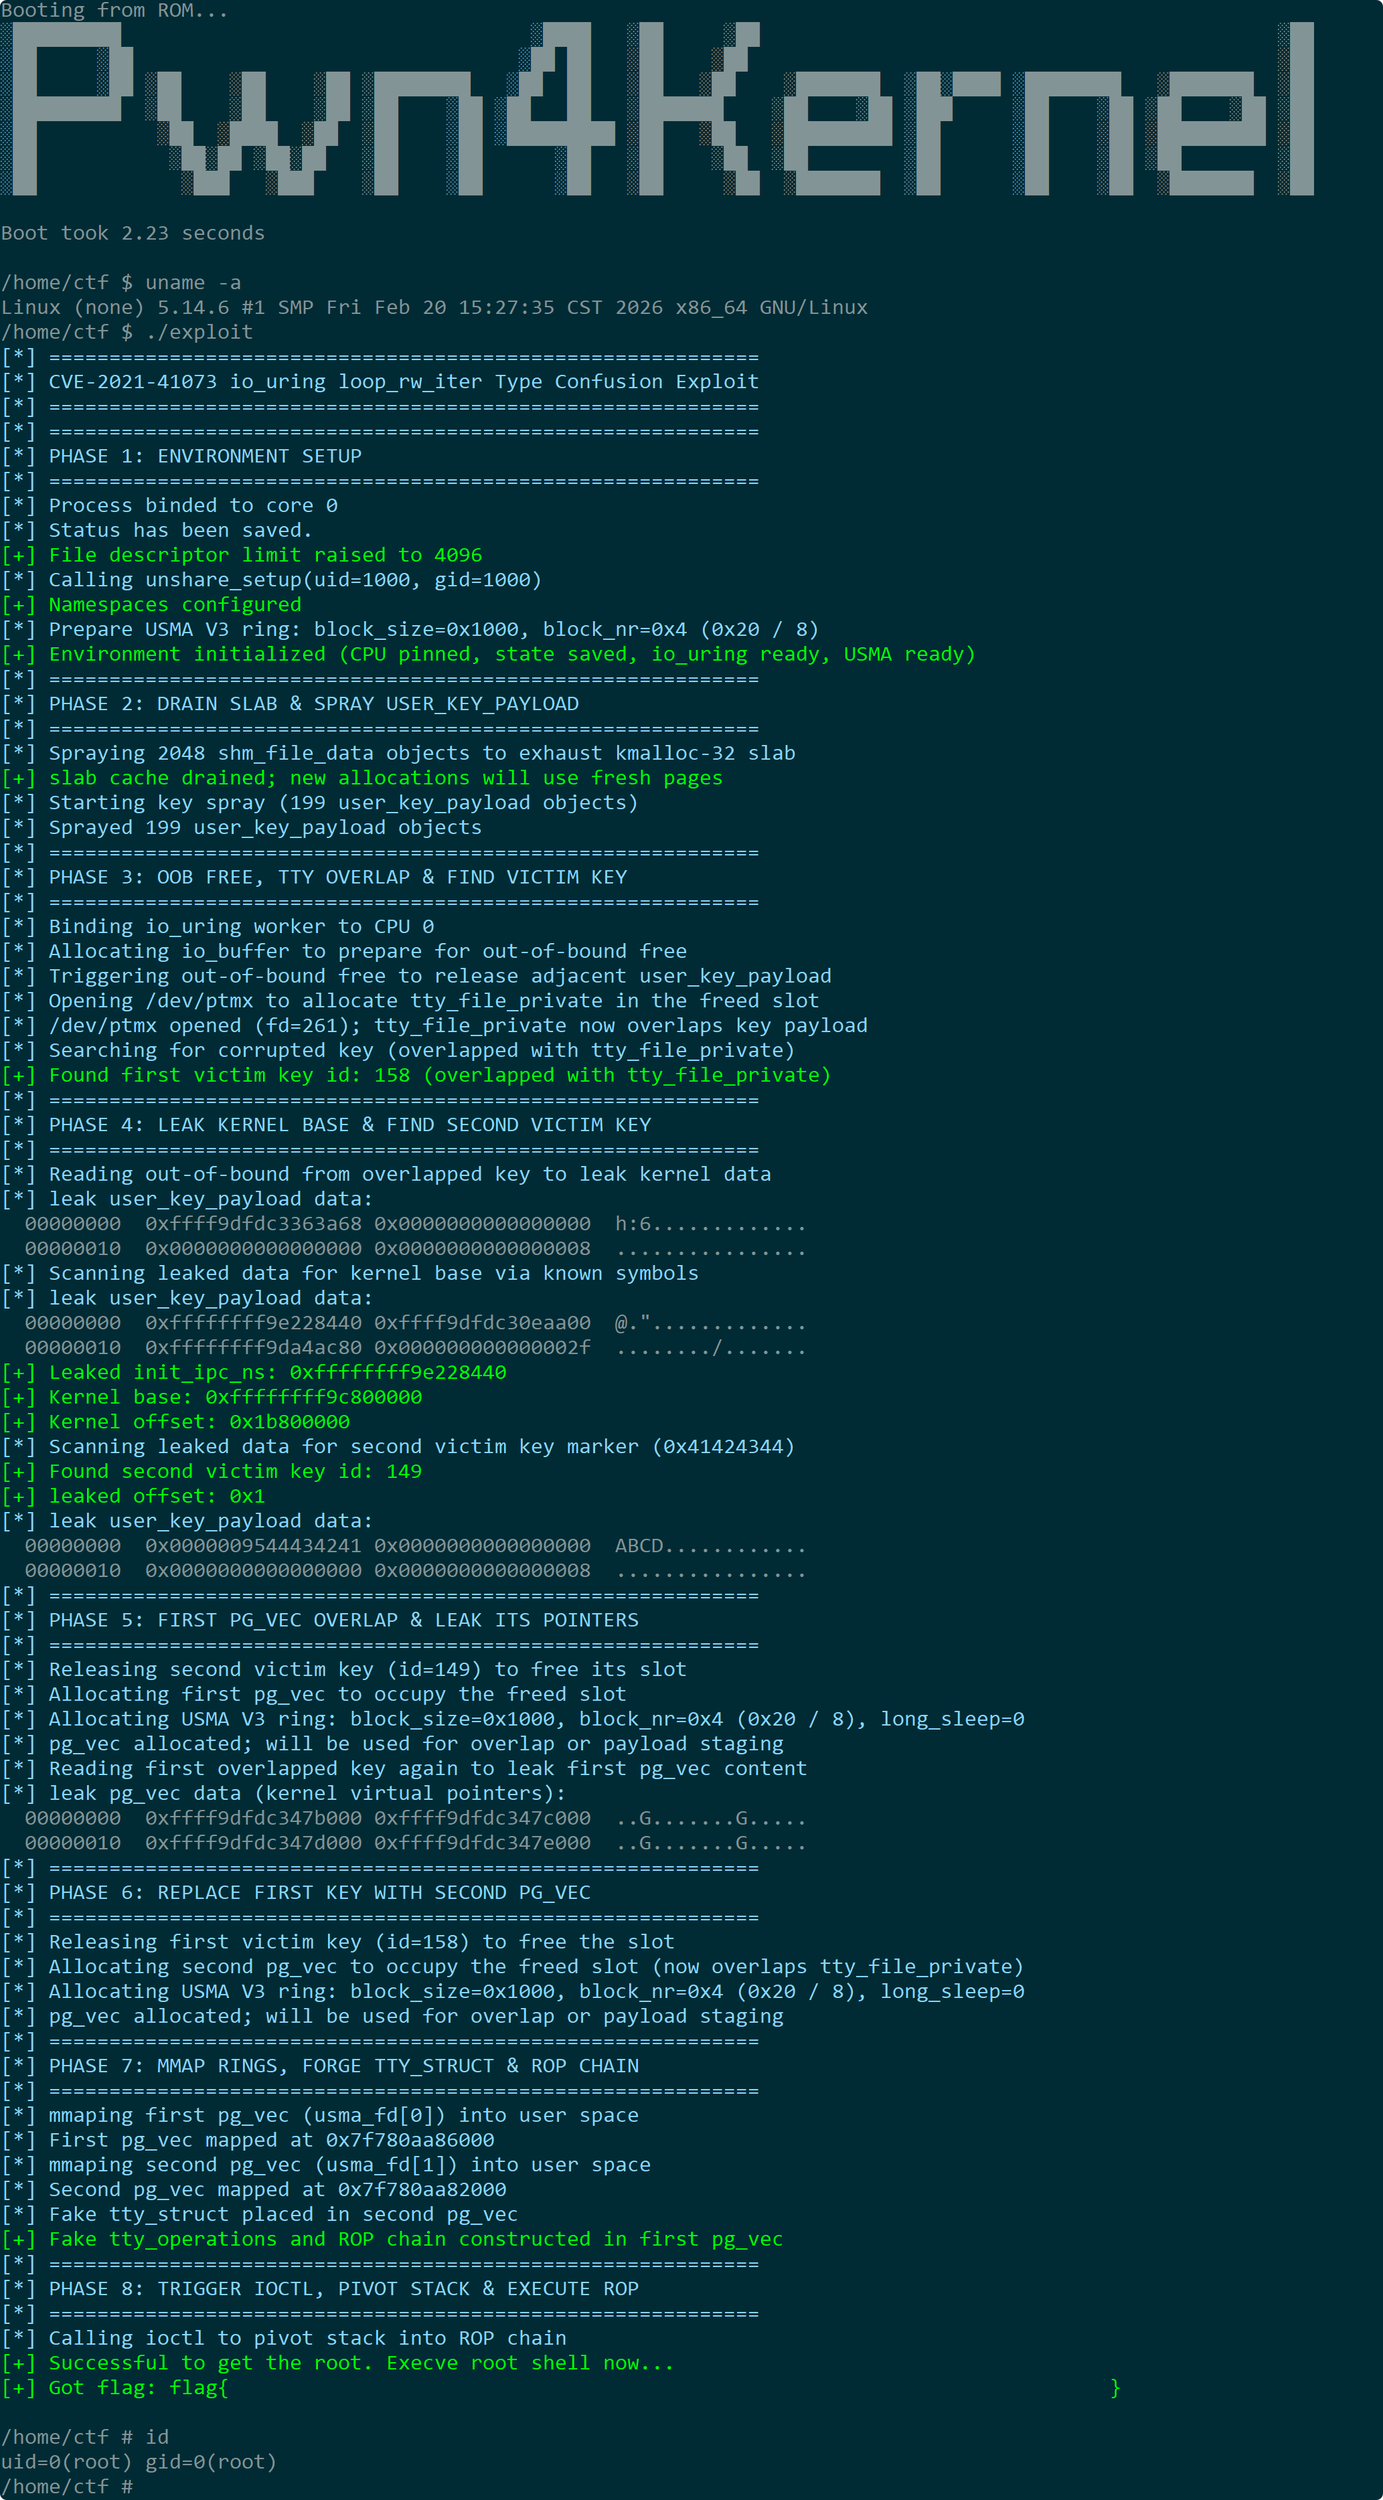
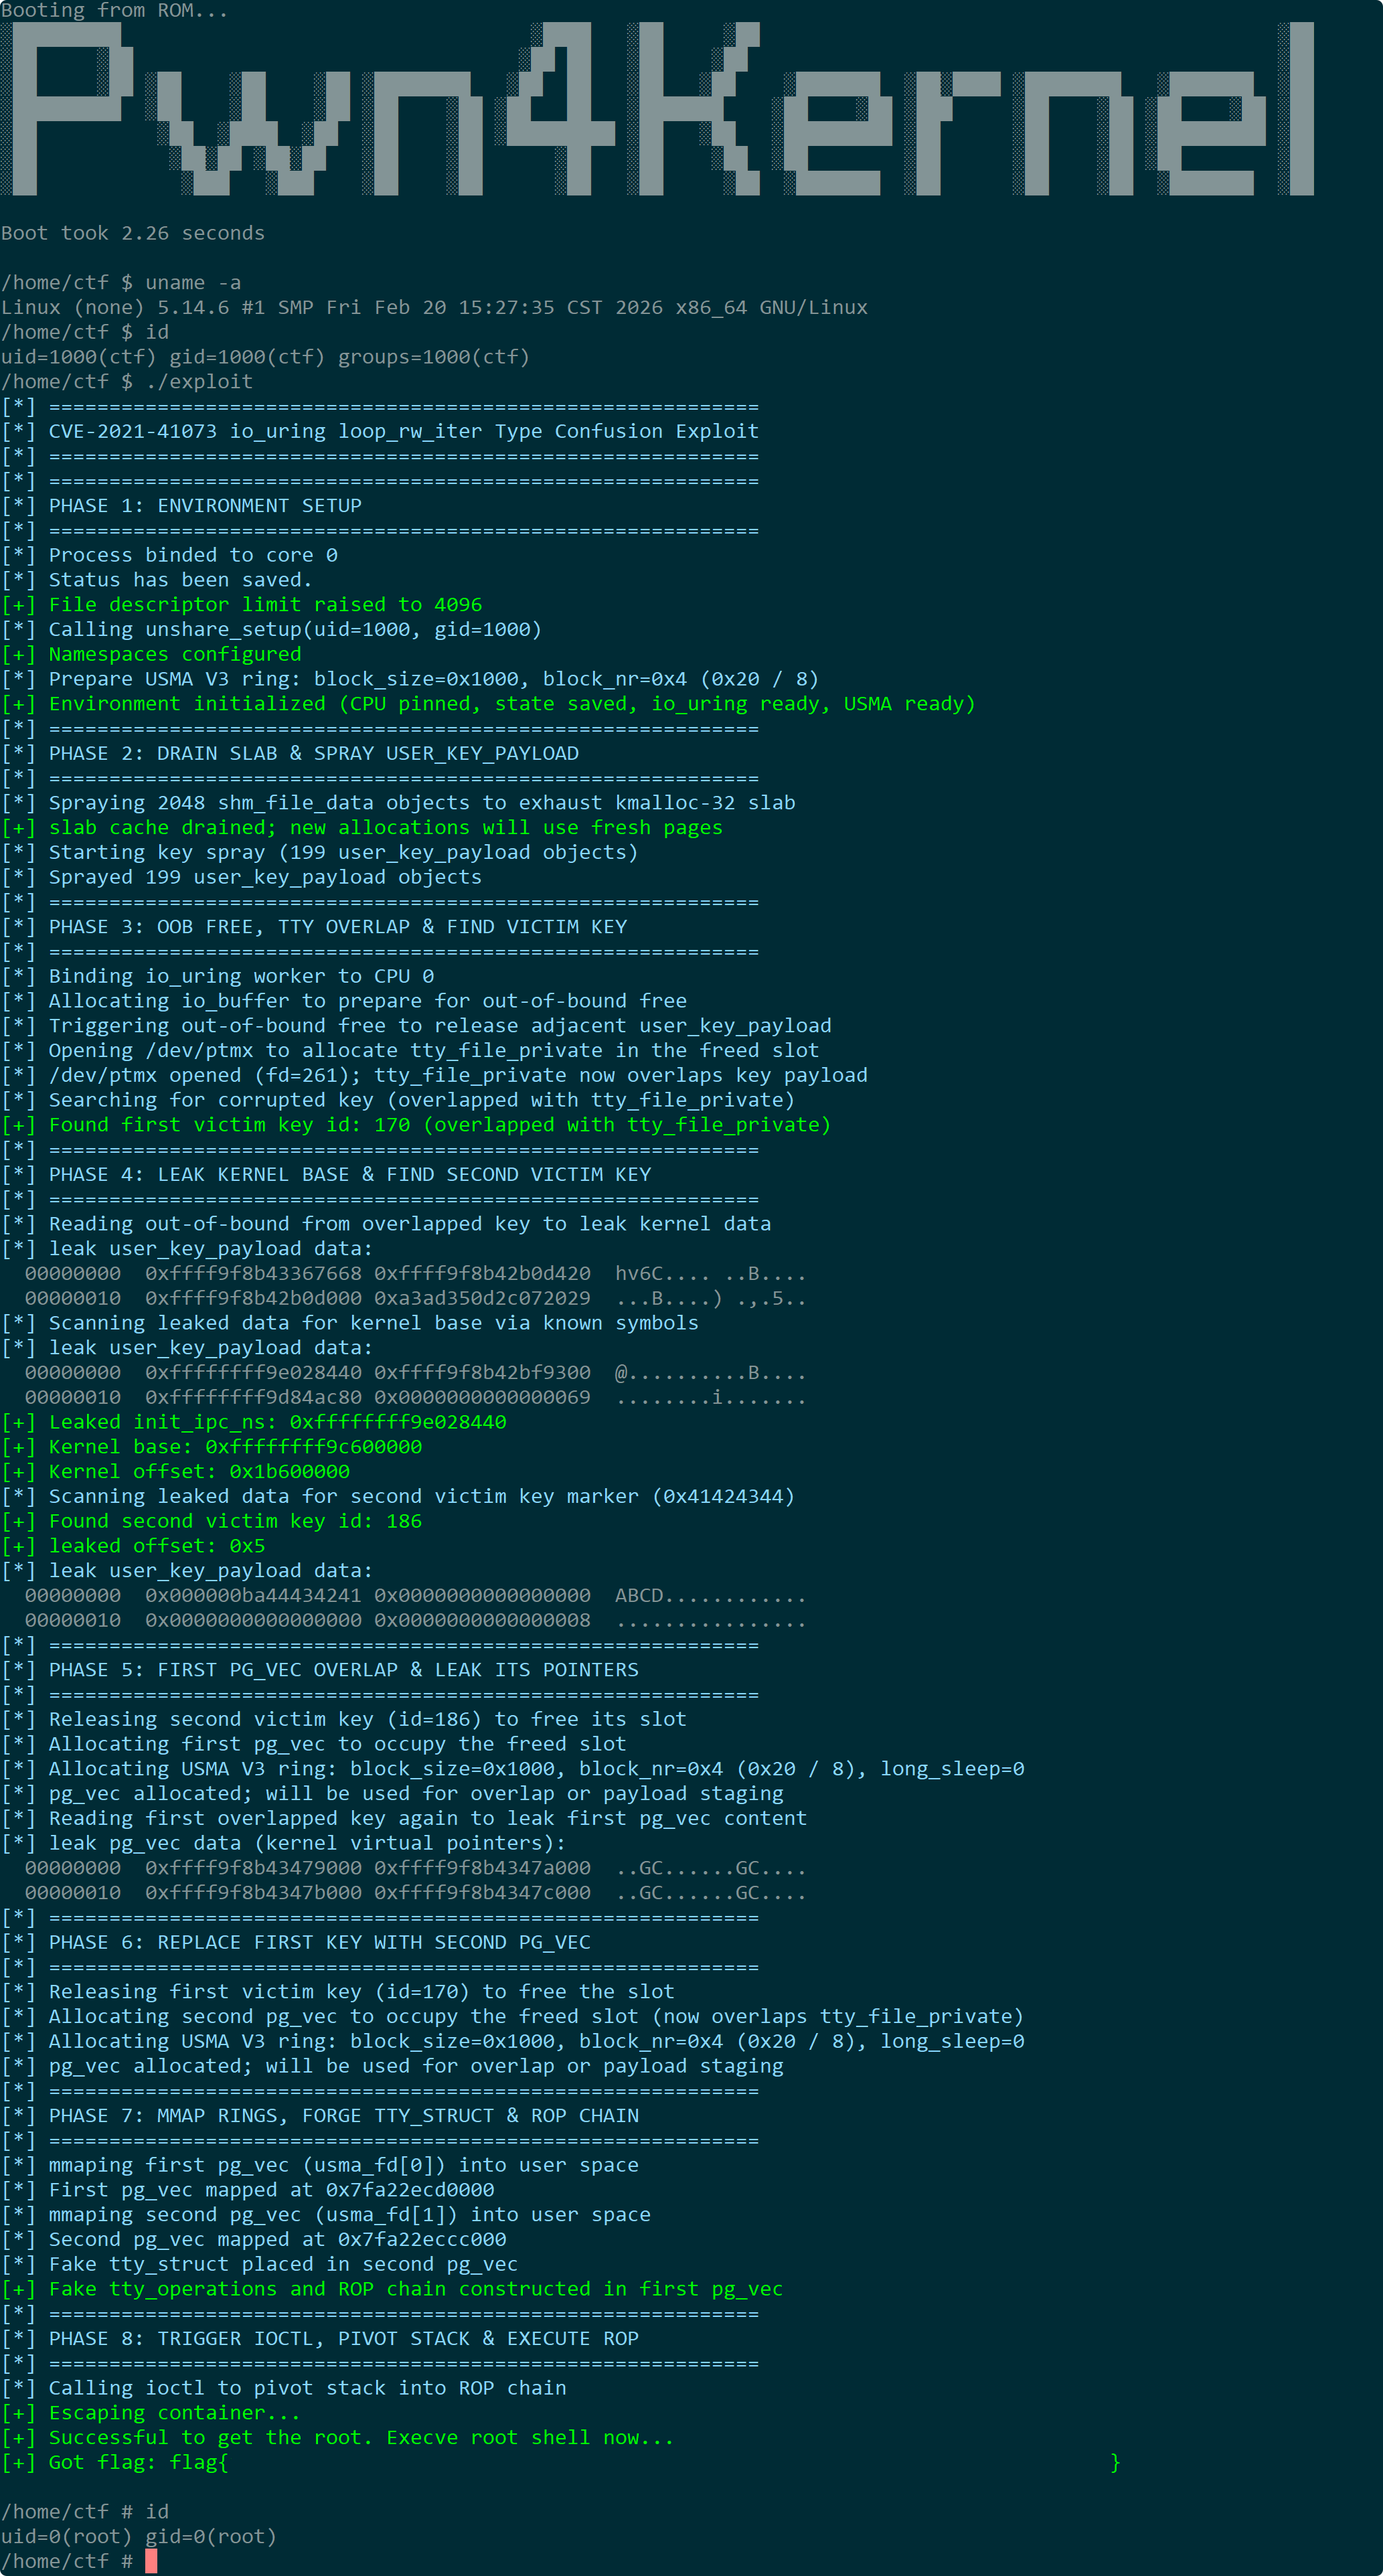
update 【Kernel Exploit】CVE-2021-41073 漏洞分析

diff --git a/_posts/2026-05-31-KernelExploit-CVE-2021-41073.md b/_posts/2026-05-31-KernelExploit-CVE-2021-41073.md
@@ -2299,8 +2299,8 @@ sequenceDiagram
 
 **构造 tty_operations 和 ROP 链**：在第一个 `pg_vec` 的第三个页（`leak_pgv[2]`）中，放置伪造的 `tty_operations` 结构，将其 `ioctl` 函数指针设置为一个合适的堆栈迁移 gadget（用于将控制流转移到 ROP 链）。随后，在同一页或后续页中紧挨着放置完整的 ROP 链，该链完成以下任务：
 
-- 切换到 init 命名空间（通过 `switch_task_namespaces`）
 - 提升权限（`prepare_kernel_cred(0)` + `commit_creds`）
+- 切换到 init 命名空间（通过 `switch_task_namespaces`）
 - 返回用户态并执行 `get_root_shell`（利用 `swapgs_restore_regs_and_return_to_usermode`）。
 
 所有 ROP 链中的地址均基于先前泄露的内核基址计算得到，从而在 KASLR 开启的情况下依然有效。
@@ -2322,7 +2322,7 @@ flowchart TD
 
 **堆栈迁移**：`ioctl` 函数指针被设置为一个堆栈迁移 gadget，该 gadget 将栈指针切换为 RDX 的值（即 ROP 链地址），随后跳转到 ROP 链的第一条指令。
 
-**ROP 执行**：ROP 链依次执行命名空间切换、权限提升和用户态返回，最终在父进程中启动一个 root shell。
+**ROP 执行**：ROP 链依次执行权限提升、命名空间切换和用户态返回，最终在父进程中启动一个 root shell。
 
 ```mermaid
 sequenceDiagram
@@ -2334,7 +2334,7 @@ sequenceDiagram
     Kernel->>Kernel: 通过 tty_struct->ops->ioctl 跳转
     Kernel->>Kernel: 执行堆栈迁移 gadget (RSP = rop_addr)
     Kernel->>ROP: 执行 ROP 链
-    ROP->>Kernel: 切换命名空间、提升权限
+    ROP->>Kernel: 提升权限、切换命名空间
     ROP->>App: 返回用户态并执行 root shell
 ```
 
@@ -2377,7 +2377,7 @@ sequenceDiagram
 
 - **对象重叠与结构控制**：利用越界读取定位第二个受害者密钥，将其释放后分配第一个 `pg_vec`，读取其内部页指针；随后释放第一个密钥（原与 `tty_file_private` 重叠），分配第二个 `pg_vec`，使其与 `tty_file_private` 重叠。通过 USMA 映射，在第二个 `pg_vec` 的物理页中伪造 `tty_struct`，同时在第一个 `pg_vec` 的页中构造 `tty_driver`（type=0, subtype=0）和伪造的 `tty_operations` 表及 ROP 链，从而完全控制 tty 设备的行为。
 
-- **提权触发与稳定性保障**：最后通过 `ioctl` 系统调用，利用伪造的 `tty_operations->ioctl` 指针执行堆栈迁移 gadget，将控制流转移到 ROP 链。ROP 链依次执行命名空间切换、权限提升和用户态返回，最终获得 root shell。与第五章的关键区别在于，本方案**不修改 `pg_vec` 结构中的页指针**，而是仅修改其指向的物理页内容，因此内核定时器对 `pg_vec` 指针合法性的检查始终通过，彻底规避了因篡改指针而可能引入的系统不稳定因素。
+- **提权触发与稳定性保障**：最后通过 `ioctl` 系统调用，利用伪造的 `tty_operations->ioctl` 指针执行堆栈迁移 gadget，将控制流转移到 ROP 链。ROP 链依次执行权限提升、命名空间切换和用户态返回，最终获得 root shell。与第五章的关键区别在于，本方案**不修改 `pg_vec` 结构中的页指针**，而是仅修改其指向的物理页内容，因此内核定时器对 `pg_vec` 指针合法性的检查始终通过，彻底规避了因篡改指针而可能引入的系统不稳定因素。
 
 该方法的成功表明，即使在 KASLR、SMEP、SMAP、KPTI 等全套防御机制下，只要漏洞提供了可控释放和对象重叠能力，便可以组合利用不同内核对象的生命周期和内存布局，实现完整的权限提升。`tty_file_private` 与 `tty_struct` 的分离设计也进一步说明，类型混淆漏洞的利用不仅限于单一对象，还可以通过多步重叠将影响范围扩展至相关联的复杂结构。这一案例为内核开发者提供了警示：在引入新特性或优化性能时，必须审慎对待数据结构字段的语义一致性，尤其是那些跨越多种上下文的指针复用场景，同时应辅以静态分析和运行时检查，以尽早发现类似的设计缺陷。
 
